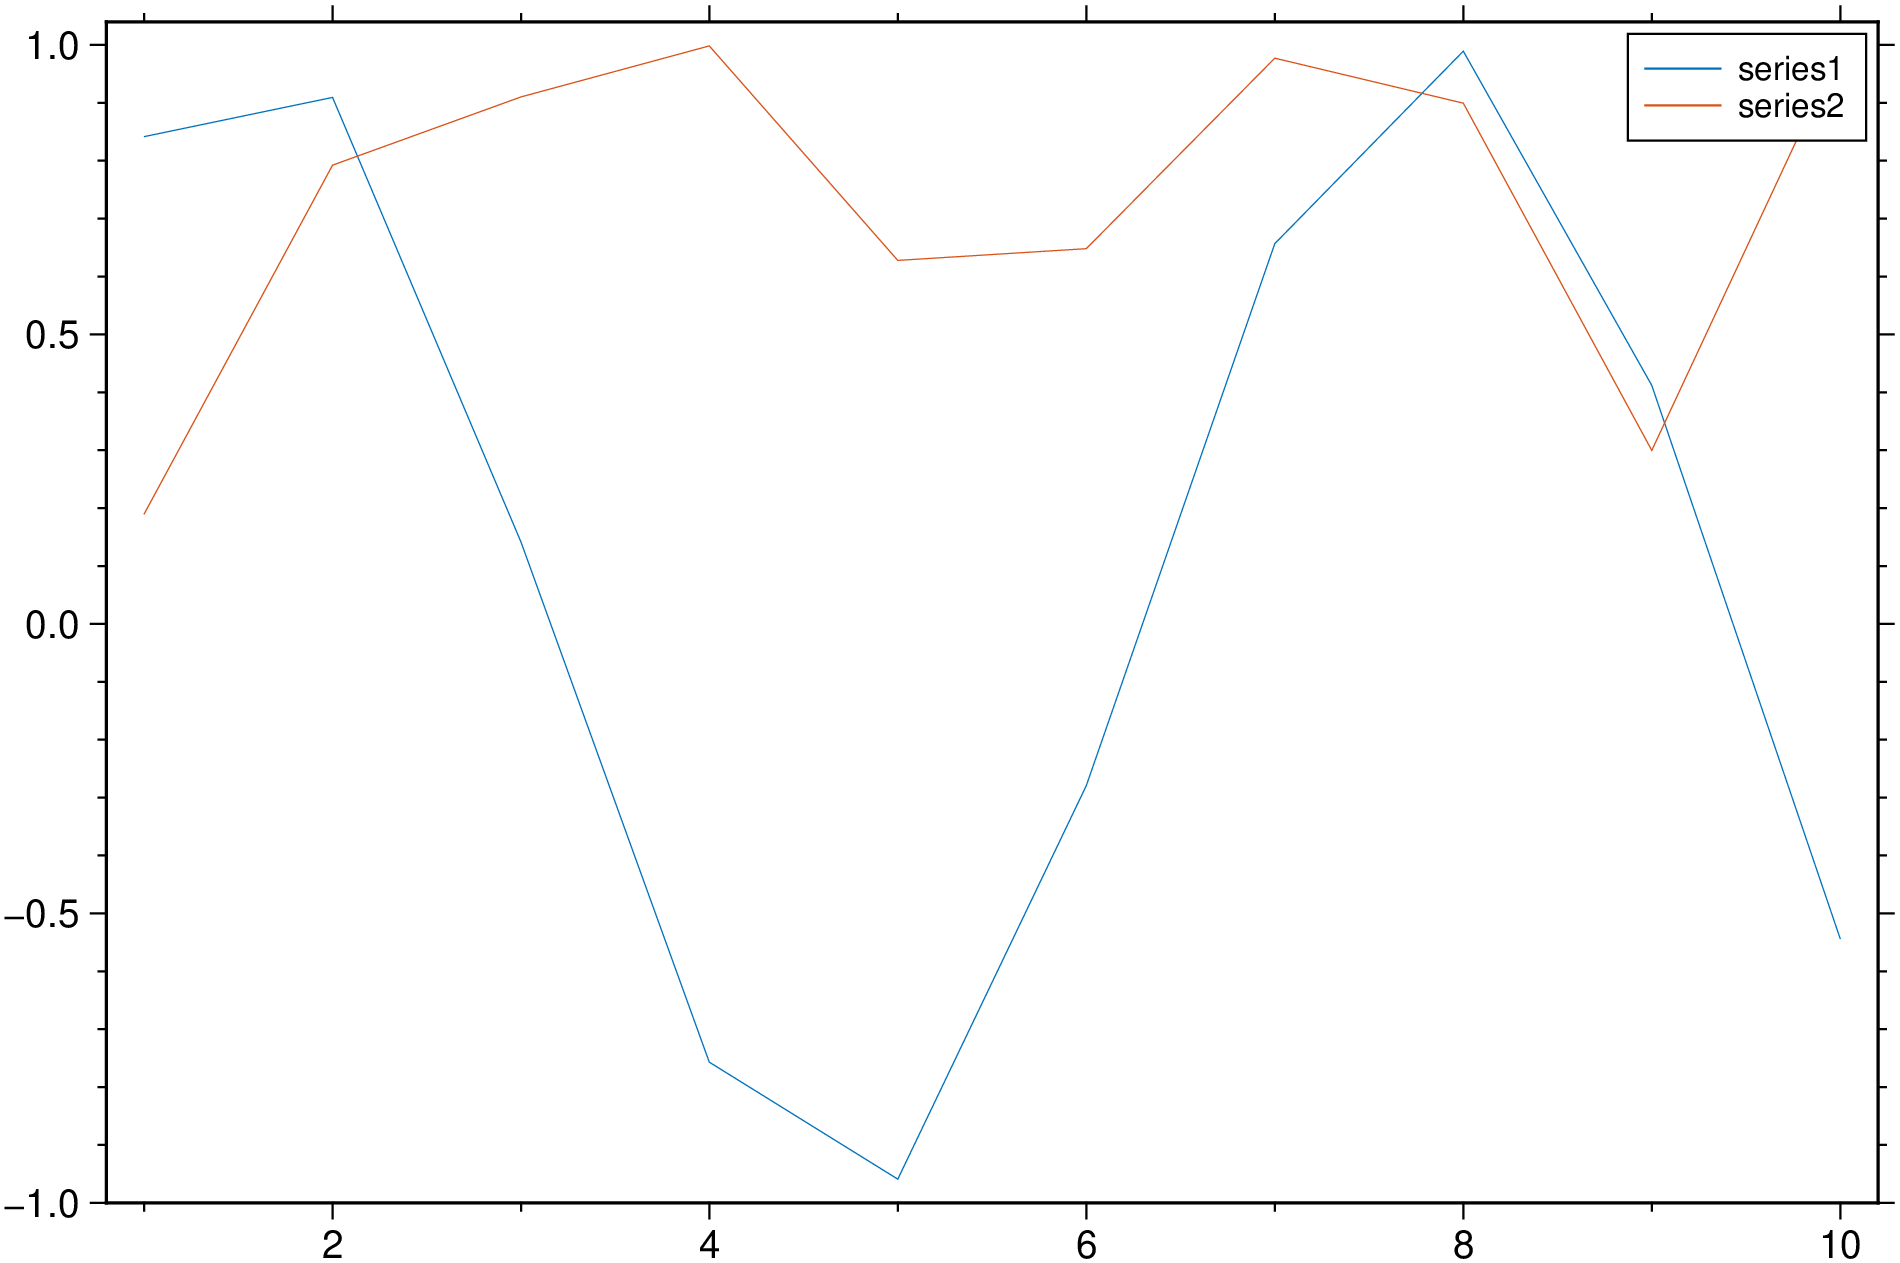
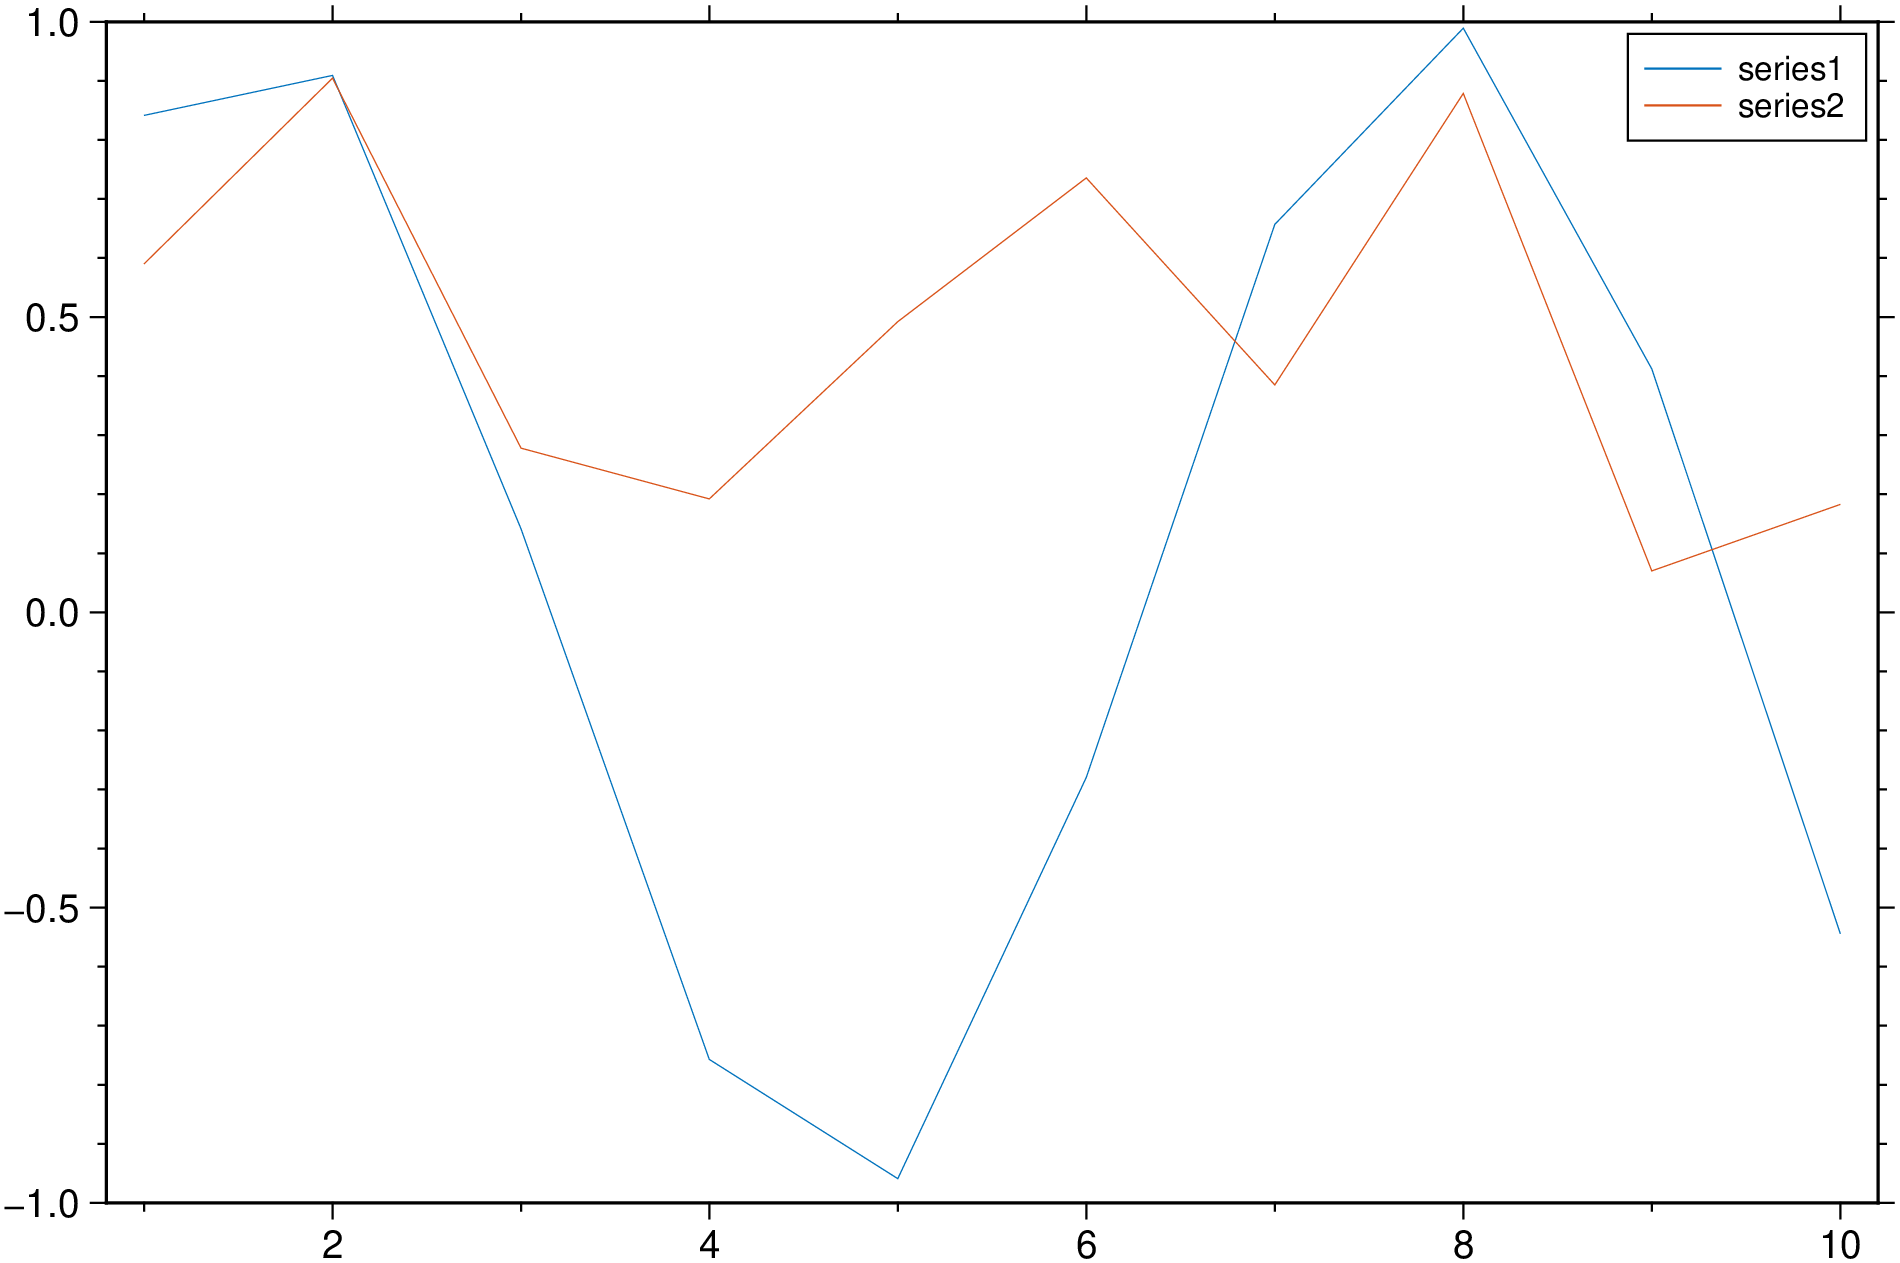
Built site for gh-pages

diff --git a/Interoperability.html b/Interoperability.html
@@ -468,26 +468,20 @@ function.</p>
 <ul>
 <li>Create and plot a DataFrame</li>
 </ul>
-<div id="47b07d97" class="cell" data-execution_count="1">
+<div id="f81196ec" class="cell" data-execution_count="1">
 <div class="code-copy-outer-scaffold"><div class="sourceCode cell-code" id="cb1"><pre class="sourceCode julia code-with-copy"><code class="sourceCode julia"><span id="cb1-1"><a href="#cb1-1" aria-hidden="true" tabindex="-1"></a><span class="im">using</span> <span class="bu">GMT</span>, <span class="bu">DataFrames</span></span>
 <span id="cb1-2"><a href="#cb1-2" aria-hidden="true" tabindex="-1"></a>df <span class="op">=</span> <span class="fu">DataFrame</span>(t <span class="op">=</span> <span class="fl">1</span><span class="op">:</span><span class="fl">10</span>, series1 <span class="op">=</span> <span class="fu">sin</span>.(<span class="fl">1</span><span class="op">:</span><span class="fl">10</span>), series2<span class="op">=</span><span class="fu">rand</span>(<span class="fl">10</span>));</span>
 <span id="cb1-3"><a href="#cb1-3" aria-hidden="true" tabindex="-1"></a><span class="fu">plot</span>(df, show<span class="op">=</span><span class="cn">true</span>)</span></code></pre></div><button title="Copy to Clipboard" class="code-copy-button"><i class="bi"></i></button></div>
-<div class="cell-output cell-output-stderr">
-<div class="ansi-escaped-output">
-<pre><span class="ansi-cyan-fg ansi-bold">[ </span><span class="ansi-cyan-fg ansi-bold">Info: </span>Precompiling GMTDataFramesExt [b0121151-b40e-578b-8798-214dacfa5da6]
-</pre>
-</div>
-</div>
 <div class="cell-output cell-output-display">
 <div>
 <figure class="figure">
-<p><img src="Interoperability_files/figure-html/cell-2-output-2.png" class="img-fluid figure-img"></p>
+<p><img src="Interoperability_files/figure-html/cell-2-output-1.png" class="img-fluid figure-img"></p>
 </figure>
 </div>
 </div>
 </div>
 <p>But one problem with the above solution is that although the <code>df</code> has three columns it only plotted a single curve. This happens because in GMT 3rd and on columns may be used to control color, symbol sizes etc and cannot therefore be assumed to <em>plotting data</em> by default. If we want that all columns are interpreted as data, we use the <code>multicol</code> option, like:</p>
-<div id="45806737" class="cell" data-execution_count="2">
+<div id="9d9dcd0d" class="cell" data-execution_count="2">
 <div class="code-copy-outer-scaffold"><div class="sourceCode cell-code" id="cb2"><pre class="sourceCode julia code-with-copy"><code class="sourceCode julia"><span id="cb2-1"><a href="#cb2-1" aria-hidden="true" tabindex="-1"></a><span class="im">using</span> <span class="bu">GMT</span>, <span class="bu">DataFrames</span></span>
 <span id="cb2-2"><a href="#cb2-2" aria-hidden="true" tabindex="-1"></a></span>
 <span id="cb2-3"><a href="#cb2-3" aria-hidden="true" tabindex="-1"></a>df <span class="op">=</span> <span class="fu">DataFrame</span>(t <span class="op">=</span> <span class="fl">1</span><span class="op">:</span><span class="fl">10</span>, series1 <span class="op">=</span> <span class="fu">sin</span>.(<span class="fl">1</span><span class="op">:</span><span class="fl">10</span>), series2<span class="op">=</span><span class="fu">rand</span>(<span class="fl">10</span>));</span>
@@ -582,31 +576,51 @@ function.</p>
 <span id="cb8-5"><a href="#cb8-5" aria-hidden="true" tabindex="-1"></a>A <span class="op">=</span> <span class="fu">Raster</span>(WorldClim{BioClim}, <span class="fl">5</span>);</span>
 <span id="cb8-6"><a href="#cb8-6" aria-hidden="true" tabindex="-1"></a><span class="fu">viz</span>(A, colorbar<span class="op">=</span><span class="cn">true</span>)</span></code></pre></div><button title="Copy to Clipboard" class="code-copy-button"><i class="bi"></i></button></div>
 <p><img src=".\assets/world_clim_bio_clim.png" class="center img-fluid" style="width:80.0%"></p>
-<p>begin{examplefig}{}</p>
-<div class="code-copy-outer-scaffold"><div class="sourceCode" id="cb9"><pre class="sourceCode julia code-with-copy"><code class="sourceCode julia"><span id="cb9-1"><a href="#cb9-1" aria-hidden="true" tabindex="-1"></a><span class="im">using</span> <span class="bu">GMT</span>, <span class="bu">Rasters</span></span>
+<div id="2aa2cfb5" class="cell" data-execution_count="3">
+<div class="code-copy-outer-scaffold"><div class="sourceCode cell-code" id="cb9"><pre class="sourceCode julia code-with-copy"><code class="sourceCode julia"><span id="cb9-1"><a href="#cb9-1" aria-hidden="true" tabindex="-1"></a><span class="im">using</span> <span class="bu">GMT</span>, <span class="bu">Rasters</span></span>
 <span id="cb9-2"><a href="#cb9-2" aria-hidden="true" tabindex="-1"></a><span class="im">import</span> <span class="bu">NCDatasets</span></span>
 <span id="cb9-3"><a href="#cb9-3" aria-hidden="true" tabindex="-1"></a></span>
 <span id="cb9-4"><a href="#cb9-4" aria-hidden="true" tabindex="-1"></a>url <span class="op">=</span> <span class="st">"https://archive.unidata.ucar.edu/software/netcdf/examples/tos_O1_2001-2002.nc"</span>;</span>
 <span id="cb9-5"><a href="#cb9-5" aria-hidden="true" tabindex="-1"></a>filename <span class="op">=</span> <span class="fu">download</span>(url, <span class="st">"tos_O1_2001-2002.nc"</span>);</span>
 <span id="cb9-6"><a href="#cb9-6" aria-hidden="true" tabindex="-1"></a>A <span class="op">=</span> <span class="fu">Raster</span>(filename);</span>
 <span id="cb9-7"><a href="#cb9-7" aria-hidden="true" tabindex="-1"></a><span class="fu">viz</span>(A[Ti<span class="op">=</span><span class="fl">6</span>], proj<span class="op">=:</span>guess, coast<span class="op">=</span><span class="cn">true</span>, colorbar<span class="op">=</span><span class="cn">true</span>)</span></code></pre></div><button title="Copy to Clipboard" class="code-copy-button"><i class="bi"></i></button></div>
-<p>begin{examplefig}{}</p>
-<div class="code-copy-outer-scaffold"><div class="sourceCode" id="cb10"><pre class="sourceCode julia code-with-copy"><code class="sourceCode julia"><span id="cb10-1"><a href="#cb10-1" aria-hidden="true" tabindex="-1"></a><span class="im">using</span> <span class="bu">GMT</span>, <span class="bu">Rasters</span></span>
-<span id="cb10-2"><a href="#cb10-2" aria-hidden="true" tabindex="-1"></a><span class="im">import</span> <span class="bu">NCDatasets</span></span>
-<span id="cb10-3"><a href="#cb10-3" aria-hidden="true" tabindex="-1"></a>url <span class="op">=</span> <span class="st">"https://archive.unidata.ucar.edu/software/netcdf/examples/tos_O1_2001-2002.nc"</span>;</span>
-<span id="cb10-4"><a href="#cb10-4" aria-hidden="true" tabindex="-1"></a>filename <span class="op">=</span> <span class="fu">download</span>(url, <span class="st">"tos_O1_2001-2002.nc"</span>);</span>
-<span id="cb10-5"><a href="#cb10-5" aria-hidden="true" tabindex="-1"></a>A <span class="op">=</span> <span class="fu">Raster</span>(filename);</span>
-<span id="cb10-6"><a href="#cb10-6" aria-hidden="true" tabindex="-1"></a><span class="fu">viz</span>(A[Ti<span class="op">=</span><span class="fl">1</span><span class="op">:</span><span class="fl">6</span>], proj<span class="op">=:</span>Robinson, coast<span class="op">=</span><span class="cn">true</span>, colorbar<span class="op">=</span><span class="cn">true</span>)</span></code></pre></div><button title="Copy to Clipboard" class="code-copy-button"><i class="bi"></i></button></div>
+<div class="cell-output cell-output-display">
+<div>
+<figure class="figure">
+<p><img src="Interoperability_files/figure-html/cell-4-output-1.png" class="img-fluid figure-img"></p>
+</figure>
+</div>
+</div>
+</div>
+<div id="b2d56fc5" class="cell" data-execution_count="4">
+<div class="code-copy-outer-scaffold"><div class="sourceCode cell-code" id="cb10"><pre class="sourceCode julia code-with-copy"><code class="sourceCode julia"><span id="cb10-1"><a href="#cb10-1" aria-hidden="true" tabindex="-1"></a>url <span class="op">=</span> <span class="st">"https://archive.unidata.ucar.edu/software/netcdf/examples/tos_O1_2001-2002.nc"</span>;</span>
+<span id="cb10-2"><a href="#cb10-2" aria-hidden="true" tabindex="-1"></a>filename <span class="op">=</span> <span class="fu">download</span>(url, <span class="st">"tos_O1_2001-2002.nc"</span>);</span>
+<span id="cb10-3"><a href="#cb10-3" aria-hidden="true" tabindex="-1"></a>A <span class="op">=</span> <span class="fu">Raster</span>(filename);</span>
+<span id="cb10-4"><a href="#cb10-4" aria-hidden="true" tabindex="-1"></a><span class="fu">viz</span>(A[Ti<span class="op">=</span><span class="fl">1</span><span class="op">:</span><span class="fl">6</span>], proj<span class="op">=:</span>Robinson, coast<span class="op">=</span><span class="cn">true</span>, colorbar<span class="op">=</span><span class="cn">true</span>)</span></code></pre></div><button title="Copy to Clipboard" class="code-copy-button"><i class="bi"></i></button></div>
+<div class="cell-output cell-output-display">
+<div>
+<figure class="figure">
+<p><img src="Interoperability_files/figure-html/cell-5-output-1.png" class="img-fluid figure-img"></p>
+</figure>
+</div>
+</div>
+</div>
 <p>But <em>I Don’t like Kelvins</em>. Fine, want centigrade? Just offset the <em>z</em> values.</p>
-<p>begin{examplefig}{}</p>
-<div class="code-copy-outer-scaffold"><div class="sourceCode" id="cb11"><pre class="sourceCode julia code-with-copy"><code class="sourceCode julia"><span id="cb11-1"><a href="#cb11-1" aria-hidden="true" tabindex="-1"></a><span class="im">using</span> <span class="bu">GMT</span>, <span class="bu">Rasters</span></span>
-<span id="cb11-2"><a href="#cb11-2" aria-hidden="true" tabindex="-1"></a><span class="im">import</span> <span class="bu">NCDatasets</span></span>
-<span id="cb11-3"><a href="#cb11-3" aria-hidden="true" tabindex="-1"></a>url <span class="op">=</span> <span class="st">"https://archive.unidata.ucar.edu/software/netcdf/examples/tos_O1_2001-2002.nc"</span>;</span>
-<span id="cb11-4"><a href="#cb11-4" aria-hidden="true" tabindex="-1"></a>filename <span class="op">=</span> <span class="fu">download</span>(url, <span class="st">"tos_O1_2001-2002.nc"</span>);</span>
-<span id="cb11-5"><a href="#cb11-5" aria-hidden="true" tabindex="-1"></a>A <span class="op">=</span> <span class="fu">Raster</span>(filename);</span>
-<span id="cb11-6"><a href="#cb11-6" aria-hidden="true" tabindex="-1"></a></span>
-<span id="cb11-7"><a href="#cb11-7" aria-hidden="true" tabindex="-1"></a>G <span class="op">=</span> <span class="fu">mat2grid</span>(A[Ti<span class="op">=</span><span class="fl">1</span><span class="op">:</span><span class="fl">6</span>], offset<span class="op">=-</span><span class="fl">273.15</span>);</span>
-<span id="cb11-8"><a href="#cb11-8" aria-hidden="true" tabindex="-1"></a><span class="fu">viz</span>(G, proj<span class="op">=:</span>Robinson, coast<span class="op">=</span><span class="cn">true</span>, colorbar<span class="op">=</span><span class="cn">true</span>)</span></code></pre></div><button title="Copy to Clipboard" class="code-copy-button"><i class="bi"></i></button></div>
+<div id="65ede19e" class="cell" data-execution_count="5">
+<div class="code-copy-outer-scaffold"><div class="sourceCode cell-code" id="cb11"><pre class="sourceCode julia code-with-copy"><code class="sourceCode julia"><span id="cb11-1"><a href="#cb11-1" aria-hidden="true" tabindex="-1"></a>url <span class="op">=</span> <span class="st">"https://archive.unidata.ucar.edu/software/netcdf/examples/tos_O1_2001-2002.nc"</span>;</span>
+<span id="cb11-2"><a href="#cb11-2" aria-hidden="true" tabindex="-1"></a>filename <span class="op">=</span> <span class="fu">download</span>(url, <span class="st">"tos_O1_2001-2002.nc"</span>);</span>
+<span id="cb11-3"><a href="#cb11-3" aria-hidden="true" tabindex="-1"></a>A <span class="op">=</span> <span class="fu">Raster</span>(filename);</span>
+<span id="cb11-4"><a href="#cb11-4" aria-hidden="true" tabindex="-1"></a></span>
+<span id="cb11-5"><a href="#cb11-5" aria-hidden="true" tabindex="-1"></a>G <span class="op">=</span> <span class="fu">mat2grid</span>(A[Ti<span class="op">=</span><span class="fl">1</span><span class="op">:</span><span class="fl">6</span>], offset<span class="op">=-</span><span class="fl">273.15</span>);</span>
+<span id="cb11-6"><a href="#cb11-6" aria-hidden="true" tabindex="-1"></a><span class="fu">viz</span>(G, proj<span class="op">=:</span>Robinson, coast<span class="op">=</span><span class="cn">true</span>, colorbar<span class="op">=</span><span class="cn">true</span>)</span></code></pre></div><button title="Copy to Clipboard" class="code-copy-button"><i class="bi"></i></button></div>
+<div class="cell-output cell-output-display">
+<div>
+<figure class="figure">
+<p><img src="Interoperability_files/figure-html/cell-6-output-1.png" class="img-fluid figure-img"></p>
+</figure>
+</div>
+</div>
+</div>
 
 
 </section>

diff --git a/documentation.html b/documentation.html
@@ -418,49 +418,49 @@ ul.task-list li input[type="checkbox"] {
 
 <p>Browse through the different sections below to learn about the various modules, utilities, and features available.</p>
 <div class="grid">
-<div class="g-col-12 g-col-md-4">
+<div class="g-col-6 g-col-md-4">
 <section id="modules" class="level3 card h-100">
 <h3 class="anchored" data-anchor-id="modules"><a href="./documentation/modules.html">Modules</a></h3>
 <p>Complete reference for all GMT plotting and processing modules like <code>plot</code>, <code>coast</code>, <code>grdimage</code>, and more.</p>
 </section>
 </div>
-<div class="g-col-12 g-col-md-4">
+<div class="g-col-6 g-col-md-4">
 <section id="gmt.jl-types" class="level3 card h-100">
 <h3 class="anchored" data-anchor-id="gmt.jl-types"><a href="documentation/general/types.html">GMT.jl Types</a></h3>
 <p>Essential data types: GMTgrid, GMTimage, GMTdataset, GMTcpt, GMTps, and GMTfv with complete field descriptions.</p>
 </section>
 </div>
-<div class="g-col-12 g-col-md-4">
+<div class="g-col-6 g-col-md-4">
 <section id="gmt.jl-extensions" class="level3 card h-100">
 <h3 class="anchored" data-anchor-id="gmt.jl-extensions"><a href="documentation/extensions.html">GMT.jl Extensions</a></h3>
 <p>High-level plotting functions and data access utilities: earthregions, pcolor, quiver, weather data, and geophysical tools.</p>
 </section>
 </div>
-<div class="g-col-12 g-col-md-4">
+<div class="g-col-6 g-col-md-4">
 <section id="gdal-functions" class="level3 card h-100">
 <h3 class="anchored" data-anchor-id="gdal-functions"><a href="documentation/gdalfuns.html">GDAL Functions</a></h3>
 <p>Geospatial data processing functions using GDAL/OGR for format conversion, projections, and geometric operations.</p>
 </section>
 </div>
-<div class="g-col-12 g-col-md-4">
+<div class="g-col-6 g-col-md-4">
 <section id="solids" class="level3 card h-100">
 <h3 class="anchored" data-anchor-id="solids"><a href="documentation/solids.html">Solids</a></h3>
 <p>Functions for creating and manipulating 3D geometric solids, platonic shapes, and mesh structures.</p>
 </section>
 </div>
-<div class="g-col-12 g-col-md-4">
+<div class="g-col-6 g-col-md-4">
 <section id="image-processing" class="level3 card h-100">
 <h3 class="anchored" data-anchor-id="image-processing"><a href="documentation/imgproc.html">Image Processing</a></h3>
 <p>Image processing functions including morphological operations, filtering, segmentation, and color space conversions.</p>
 </section>
 </div>
-<div class="g-col-12 g-col-md-4">
+<div class="g-col-6 g-col-md-4">
 <section id="common-features" class="level3 card h-100">
 <h3 class="anchored" data-anchor-id="common-features"><a href="documentation/common_features.html">Common Features</a></h3>
 <p>Learn about colors, pens, fonts, symbols, and other features used across GMT functions.</p>
 </section>
 </div>
-<div class="g-col-12 g-col-md-4">
+<div class="g-col-6 g-col-md-4">
 <section id="alphabetical-list" class="level3 card h-100">
 <h3 class="anchored" data-anchor-id="alphabetical-list"><a href="documentation/alphabetical.html">Alphabetical List</a></h3>
 <p>Complete alphabetical listing of all 308 documented functions with quick links and category information.</p>

diff --git a/documentation/extensions.html b/documentation/extensions.html
@@ -710,8 +710,8 @@ ul.task-list li input[type="checkbox"] {
 <h2 class="anchored" data-anchor-id="data-processing">Data Processing</h2>
 <p>Functions for data smoothing, filtering, and statistical analysis.</p>
 <div class="grid">
-<div class="card h-100">
 <div class="g-col-12 g-col-sm-6 g-col-md-4 g-col-lg-2">
+<div class="card h-100">
 <p><a href="utilities/autocor.html">autocor</a> <a href="utilities/autocor.html"><img src="modules/assets/autocor_logo.jpg" class="card-img-top img-fluid"></a></p>
 <div class="card-body">
 <p>Autocorrelation function.</p>
